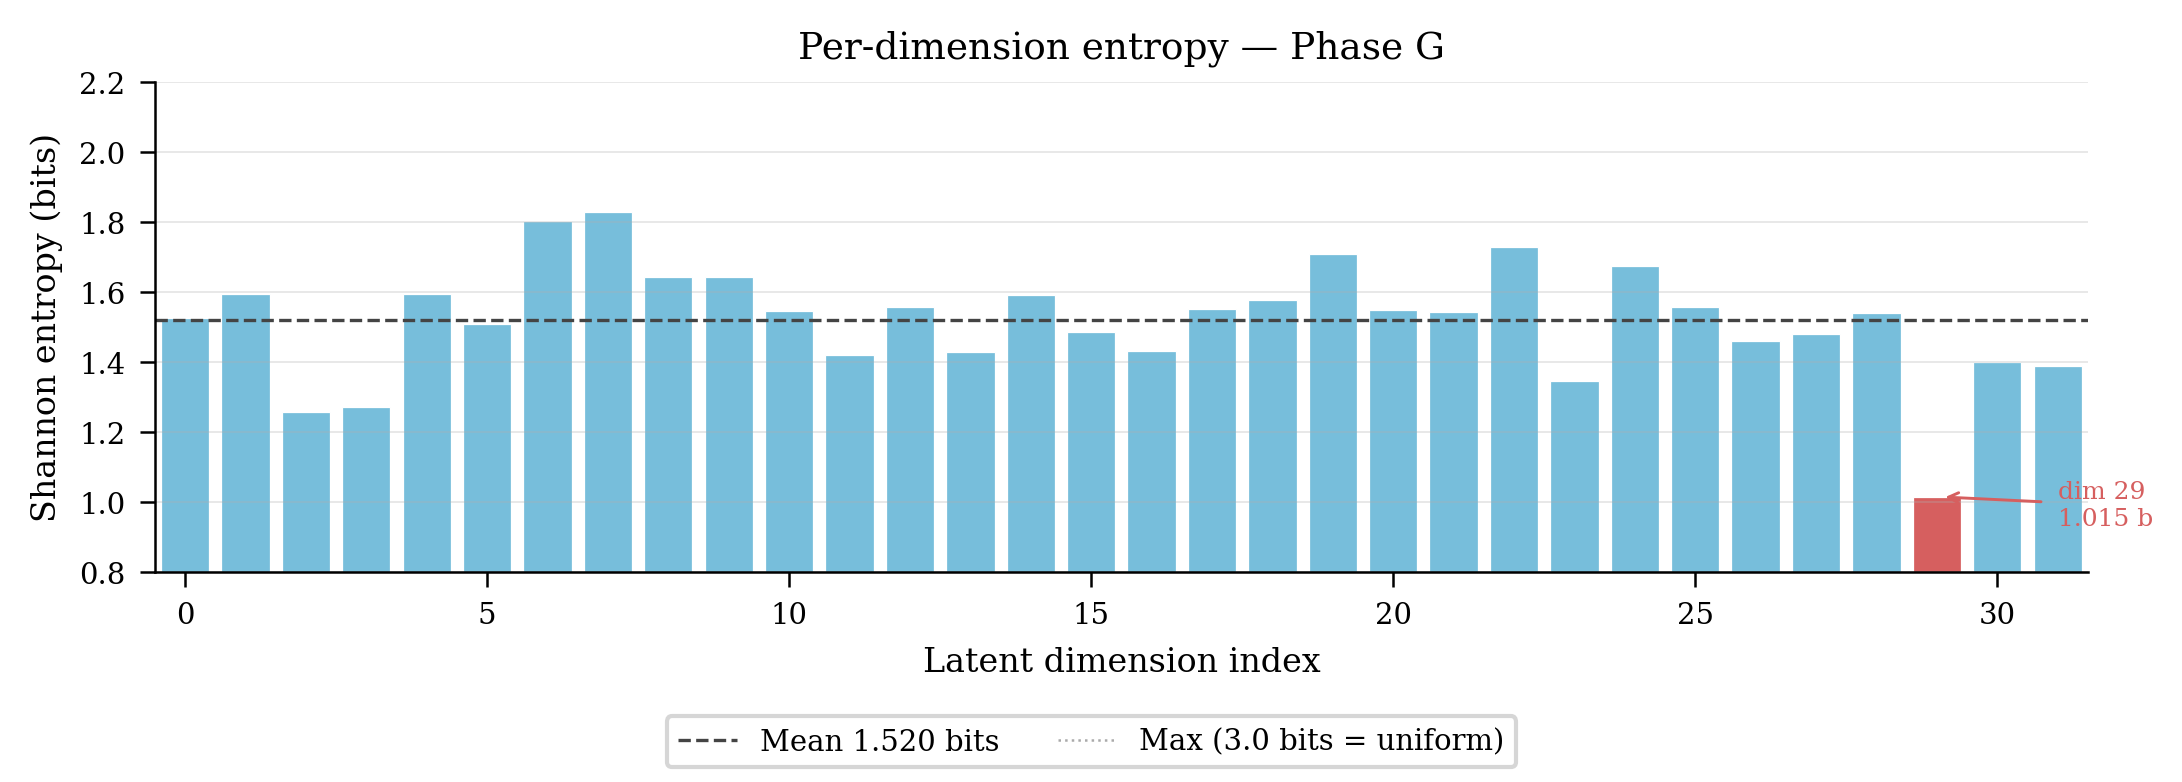
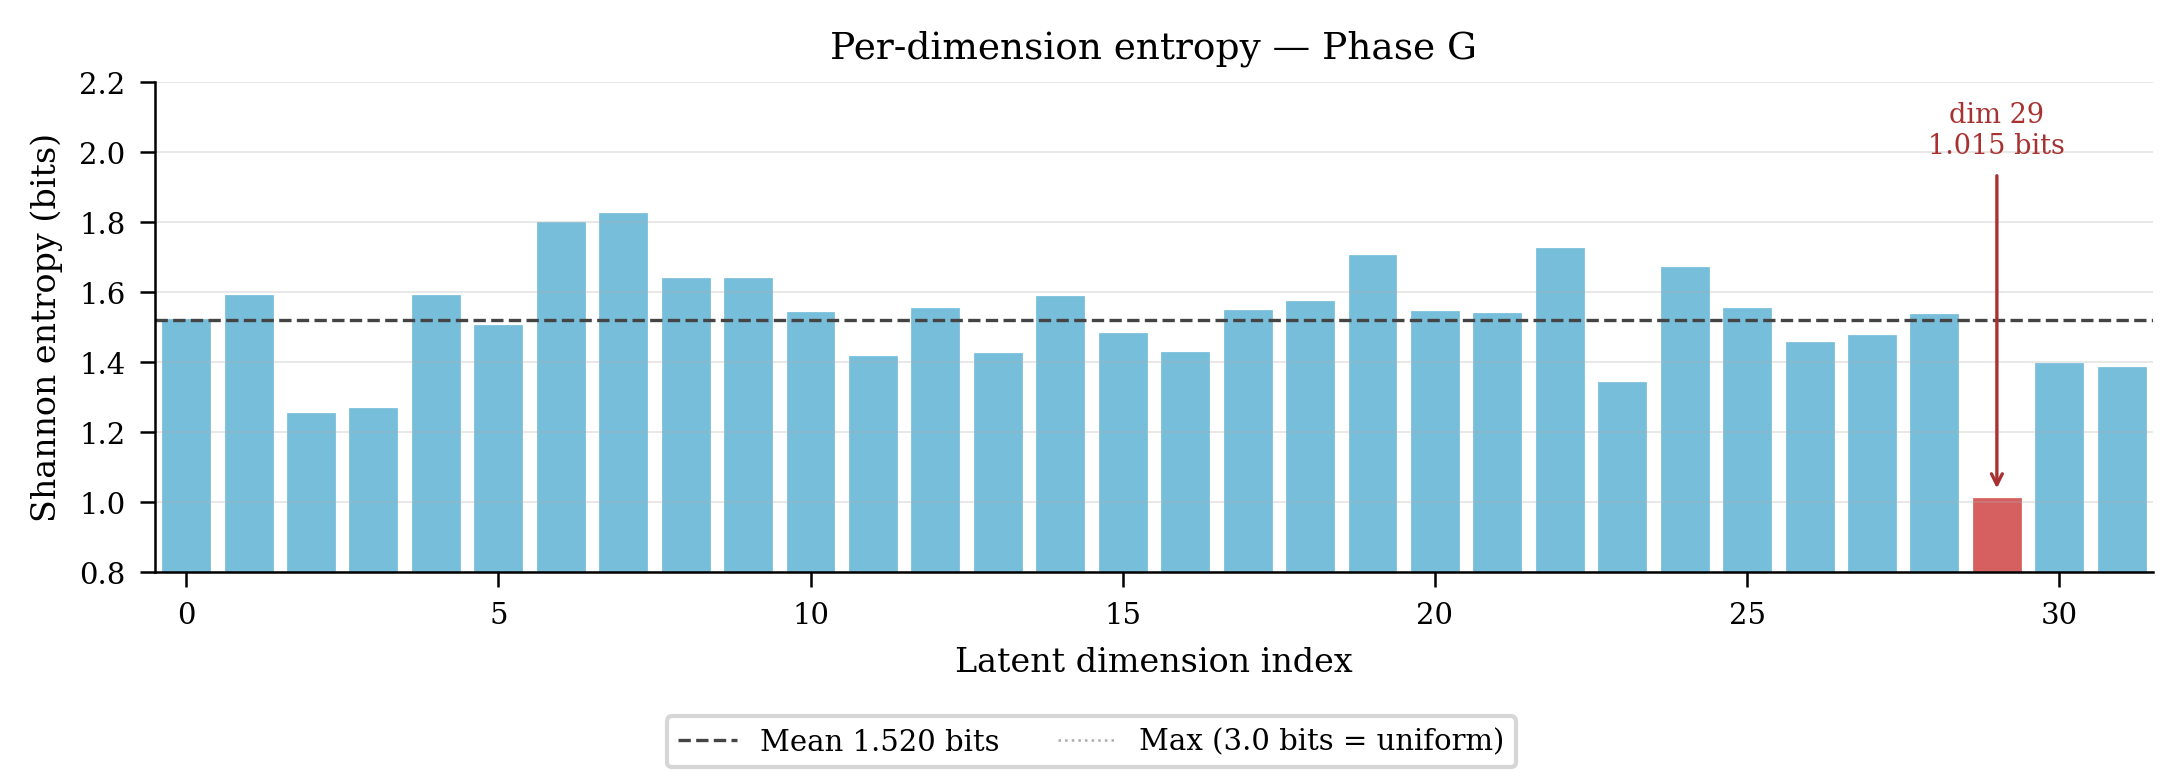
feat: improve annotation placement and styling in entropy plots

diff --git a/scripts/figures/plots.py b/scripts/figures/plots.py
@@ -136,11 +136,14 @@ def fig_03_dim_entropy(data: dict) -> plt.Figure:
     ax.axhline(3.0, color='#aaa', linewidth=0.6, linestyle=':',
                label='Max (3.0 bits = uniform)')
     min_idx = int(np.argmin(vals))
-    ax.annotate(f'dim {min_idx}\n{min(vals):.3f} b',
-                xy=(min_idx, min(vals)),
-                xytext=(min_idx + 2, min(vals) - 0.08),
-                fontsize=6, color=style.PHASE_COLORS['D-VAE'],
-                arrowprops=dict(arrowstyle='->', color=style.PHASE_COLORS['D-VAE'], lw=0.7))
+    # Placed above, in the clear headroom over the bars, rather than off to the
+    # side where it used to overlap neighbouring bars; darker red for contrast
+    # against white (the bar's own salmon fill reads too faint at this size).
+    ax.annotate(f'dim {min_idx}\n{min(vals):.3f} bits',
+                xy=(min_idx, vals[min_idx]),
+                xytext=(min_idx, 1.98),
+                fontsize=6.5, ha='center', va='bottom', color='#a83232',
+                arrowprops=dict(arrowstyle='->', color='#a83232', lw=0.8))
     ax.set_xlabel('Latent dimension index')
     ax.set_ylabel('Shannon entropy (bits)')
     ax.set_title('Per-dimension entropy — Phase G', fontsize=9)
@@ -620,6 +623,14 @@ def _rd_curve(data: dict, metric: str) -> plt.Figure:
     fig, ax = plt.subplots(figsize=(style.COL1_W, style.ROW_H))
     ax.plot(our_kbps, our_vals, 'o-', color=style.PHASE_COLORS['G'], linewidth=1.2,
             markersize=4, label='Ours (Phase G, SQ)')
+    # 1-bit and 2-bit points sit only ~0.2 kbps apart — label them directly so
+    # the pair doesn't read as a single marker.
+    ax.annotate('1-bit', (our_kbps[0], our_vals[0]), textcoords='offset points',
+                xytext=(-8, 7), fontsize=6, ha='right', va='bottom',
+                color=style.PHASE_COLORS['G'])
+    ax.annotate('2-bit', (our_kbps[1], our_vals[1]), textcoords='offset points',
+                xytext=(8, 7), fontsize=6, ha='left', va='bottom',
+                color=style.PHASE_COLORS['G'])
     ax.scatter([our_kbps[trained_idx]], [our_vals[trained_idx]],
                color=style.PHASE_COLORS['G'], s=60, zorder=6, marker='*',
                label=f'Trained (3-bit, {our_kbps[trained_idx]:.1f} kbps)')
